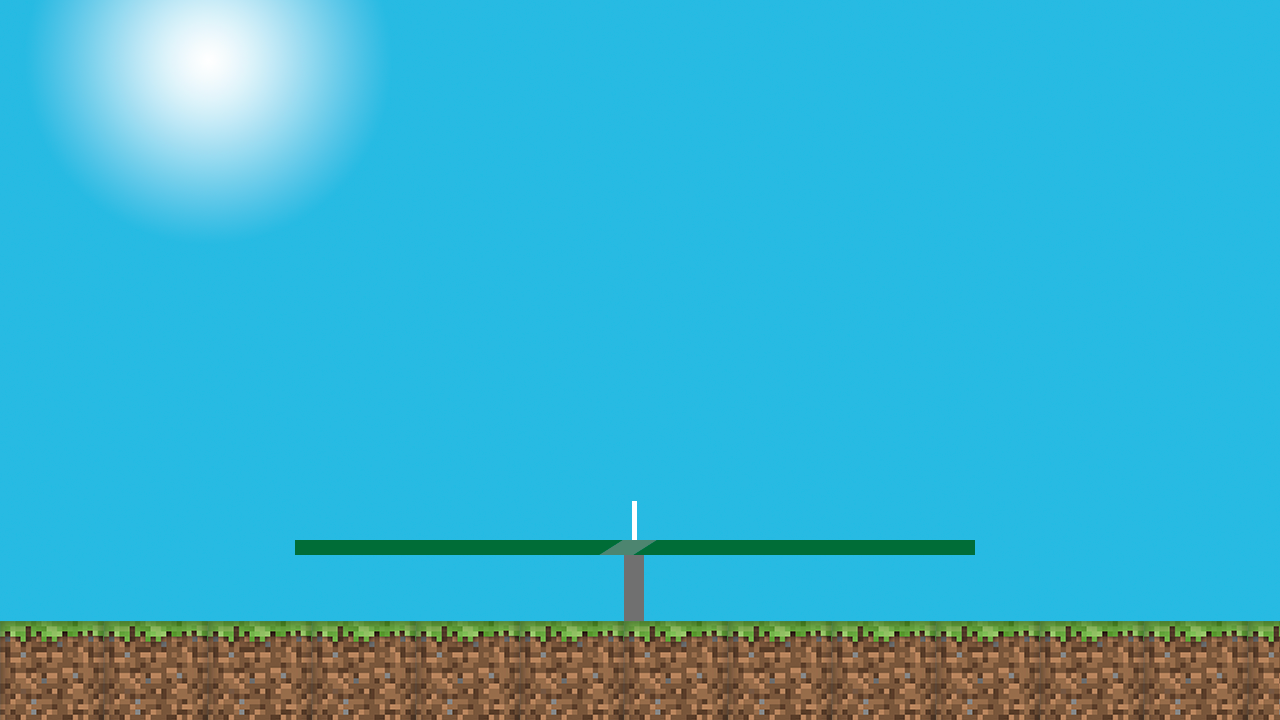
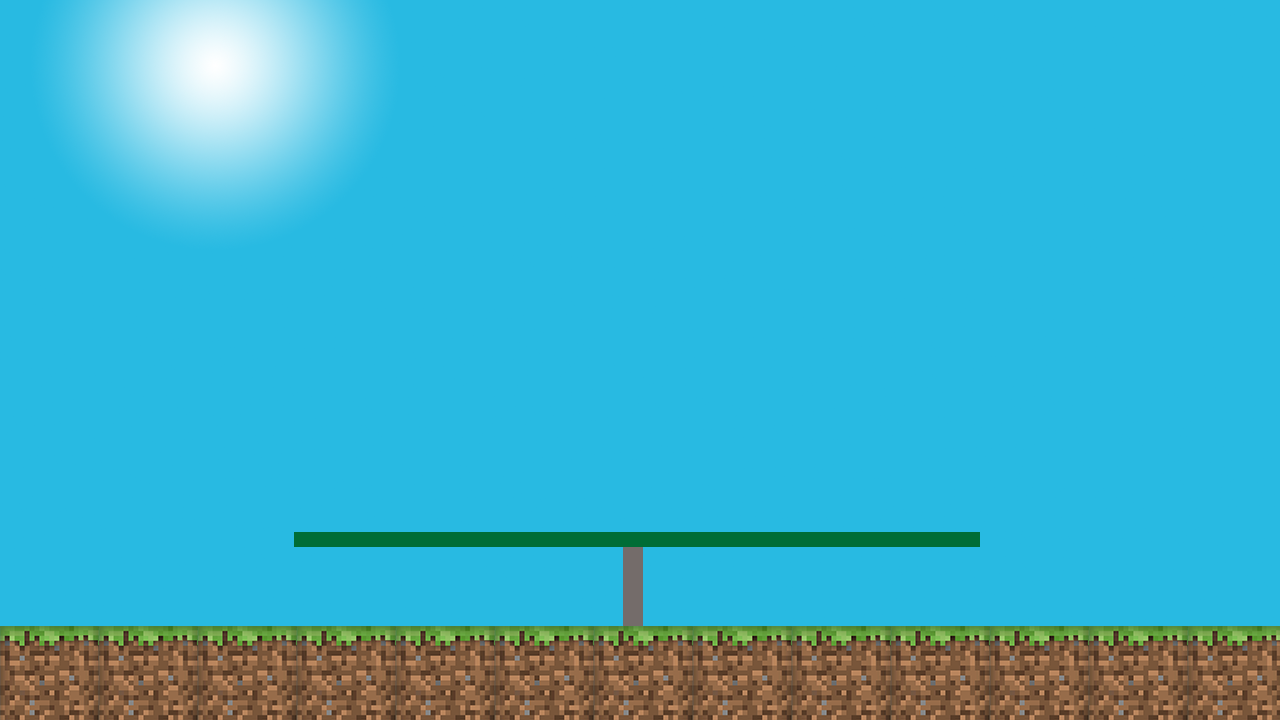
Poprawiona tekstura

Changed region(s): [[0.0, 0.8556, 1.0, 1.0], [0.2188, 0.7028, 0.7812, 0.7944], [0.0625, 0.0, 0.0938, 0.0306]]

diff --git a/pingpong/Player.cpp b/pingpong/Player.cpp
@@ -20,7 +20,7 @@ Player::Player(int mode, Racket* racket, Table* table,Ball* ball, int playerNumb
 
 void Player::move() {
 
-	
+		
 		if (mode == 0 && playerNumber == 1) {
 			if (ball->p1Serv == 2 || Collision::who == 2) {
 				if (TPMousePlayer1) {
@@ -50,6 +50,7 @@ void Player::move() {
 		}
 		else if (mode == 1 && racket->isAI) {
 			
+		
 				float x = ball->dObject->getPosition().x - racket->dObject->getPosition().x;
 				float y = ball->dObject->getPosition().y - racket->dObject->getPosition().y;
 				float lenght = sqrt(x*x + y * y);
@@ -71,15 +72,21 @@ void Player::move() {
 						x = ball->dObject->getPosition().x - 50 - racket->dObject->getPosition().x;
 						y = ball->dObject->getPosition().y + 50 - racket->dObject->getPosition().y;
 
-						if (ball->velocityVector.x < 1) speed1 = speed1 * 1.4;
-						if (abs(ball->velocityVector.x / ball->velocityVector.y) > 3 || ball->velocityVector.x < 1) speed1 = speed1 * 1.7;
-						if (abs(ball->velocityVector.y) > 3) speed1 = speed1 * 2;
-						if (abs(ball->dObject->getPosition().y) > 310 && ball->Colision!=3)
+						if (ball->velocityVector.x < 1.4f && ball->dObject->getPosition().x<800) speed1 = speed1 * 0.8;
+						else if (abs(ball->velocityVector.x / ball->velocityVector.y) > 3) speed1 = speed1 * 1.7;
+						else if (abs(ball->velocityVector.y) > 3) speed1 = speed1 * 2;
+						else if (abs(ball->dObject->getPosition().y) > 310 && ball->Colision!=3)
 						{
 							licz=2;
 							racket->dObject->setRotation(-20);
 						}
-						
+						else if (ball->dObject->getPosition().x > 800)
+						{
+							racket->dObject->setRotation(30);
+							speed1 = speed1 * 2.0f;
+							std::cout << ball->dObject->getPosition().x << "\n";
+							
+						}
 						if (licz == 0)
 						{
 							racket->dObject->setRotation(r1);
@@ -164,7 +171,6 @@ void Player::move() {
 						if (pom == 1) speed1 = 30;
 						if (pom == 2) speed1 = 32;
 						if (pom == 3) speed1 = 40;
-						std::cout << pom << "  " << speed1 << "\n";
 						x = x - 50;
 						y = y + 40;
 						lenght = sqrt(x*x + y * y);

diff --git a/pingpong/Collision.cpp b/pingpong/Collision.cpp
@@ -205,9 +205,9 @@ void Collision::ballRacketCol(Ball *ball, Racket *racket) {
 		{
 			//std::cout << racket->velocityVector.x << " 3\n";
 			ball->Colision = 0;
+			calcballRacketCol(ball, racket);
 			ball->p1 = false;
 			ball->p2 = false;
-			calcballRacketCol(ball, racket);
 			who = 2;
 		}
 		else if (!ball->p2 && ball->Colision != 0 && racket->whichPlayer == 2)
@@ -221,10 +221,11 @@ void Collision::ballRacketCol(Ball *ball, Racket *racket) {
 		{
 			//std::cout << racket->velocityVector.x << " 4\n";
 			ball->Colision = 0;
+			calcballRacketCol(ball, racket);
 			ball->p1 = false;
 			ball->p2 = false;
-			calcballRacketCol(ball, racket);
 			who = 1;
+
 		}
 		else if (!ball->p1 && ball->Colision!=0 && racket->whichPlayer == 1)
 		{
@@ -478,12 +479,17 @@ void Collision::calcballRacketCol(Ball *ball, Racket *racket)
 	else if (angle < -1.4) angle = -1.3;
 	if (racket->velocityVector.x == 0 && racket->velocityVector.y == 0)
 	{
+		std::cout << ball->p1;
 		if (racket->angle>0 && racket->angle<90 && ball->p1)
 		{
+			
 			ball->velocityVector = { -ball->velocity*cos(angle) , ball->velocity*sin(angle) };
 		}
-		else if(ball->p1)
-		ball->velocityVector = { ball->velocity*cos(angle) , ball->velocity*sin(angle) };
+		else if (ball->p1)
+		{
+			ball->velocityVector = { ball->velocity*cos(angle) , ball->velocity*sin(angle) };
+			std::cout << racket->velocityVector.x << "  " << racket->velocityVector.y << "\n";
+		}
 		else if (racket->angle < 0 && racket->angle >-90  && ball->p2)
 		ball->velocityVector = { -ball->velocity*cos(angle) , ball->velocity*sin(angle) };
 		else if(ball->p2)

diff --git a/pingpong/Gameplay.cpp b/pingpong/Gameplay.cpp
@@ -15,14 +15,13 @@ Gameplay::Gameplay(int mode) {
 	
 	this->mode = mode;
 	Game::getWindowObj().setMouseCursorVisible(false);
-	
 	this->ball = new Ball(200.0f, 300.0f);
 	this->racket1 = new Racket(150.0f, 360.0f,0,1);
 	this->racket2 = new Racket(1130.0f, 360.0f,mode,2);
 
 	this->table1 = new Table(340,15, 0, Physics::Materials::wood, (Game::getWindowObj().getSize().x / 2 - 175), Game::getWindowObj().getSize().y / 4, 1);
 	this->table2 = new Table(340, 15, 0, Physics::Materials::wood, (Game::getWindowObj().getSize().x / 2 + 170), Game::getWindowObj().getSize().y / 4, 2);
-	this->net = new Table(5, 40, 0, Physics::Materials::wood, ((Game::getWindowObj().getSize().x / 2)-2.5f), (Game::getWindowObj().getSize().y / 4)+13.0f, 3);
+	this->net = new Table(5, 30, 0, Physics::Materials::wood, ((Game::getWindowObj().getSize().x / 2)-2.5f), (Game::getWindowObj().getSize().y / 4)+23.0f, 3);
 	
 	this->wallD = new Wall( Game::getWindowObj().getSize().x*10,10,0, Physics::Materials::wood,0,0);
 	this->wallL = new Wall(10, Game::getWindowObj().getSize().y * 10, 0, Physics::Materials::wood,0,0);

diff --git a/pingpong/Game.cpp b/pingpong/Game.cpp
@@ -34,7 +34,7 @@ Game::Game(int xSize, int ySize, int refreshRate, bool verticalSync, std::string
 
 	backgroundTexture.loadFromFile("back.png");
 	background.setTexture(&backgroundTexture);
-	background.setPosition(0, -720);
+	background.setPosition(2.5, -720);
 
 }
 
@@ -141,7 +141,9 @@ void Game::updateObjects() {
 
 void Game::drawObjects() {
 	drawVector.forEach([](sf::Drawable* &obj) {
+	
 		windowObj.draw(*obj);
+		
 	});
 
 }
@@ -154,9 +156,10 @@ void Game::run() {
 		calcTimes();
 		updateObjects();
 		for (int i = 0; i < simPerFrame; i++) gameplay->simulate();
-		if (gameplay != nullptr) windowObj.draw(background);
+		if (gameplay != nullptr) 
+		windowObj.draw(background);
 		drawObjects();
-		
+
 		windowObj.display();
 		tests();
 		frameClock.restart();

diff --git a/pingpong/Racket.cpp b/pingpong/Racket.cpp
@@ -18,8 +18,8 @@ Racket::Racket(float posX, float posY,bool isAI, int whichPlayer) :
 
 void Racket::rotation() {
 
-		if (sf::Mouse::isButtonPressed(sf::Mouse::Left)) angle -= (247.5f / Game::getSimPerFrame()) * elapsedTime;
-		if (sf::Mouse::isButtonPressed(sf::Mouse::Right)) angle += (247.5f / Game::getSimPerFrame()) * elapsedTime;
+		if (sf::Mouse::isButtonPressed(sf::Mouse::Left)) angle -= (150.5f / Game::getSimPerFrame()) * elapsedTime;
+		if (sf::Mouse::isButtonPressed(sf::Mouse::Right)) angle += (150.5f / Game::getSimPerFrame()) * elapsedTime;
 		if (sf::Mouse::isButtonPressed(sf::Mouse::Middle)) angle = 0.0f;
 
 		if (angle >= 180.0f) angle -= 180.0f;

diff --git a/pingpong/Table.cpp b/pingpong/Table.cpp
@@ -8,7 +8,10 @@ Table::Table(float pixelSizeX, float pixelSizeY, float angle, Physics::Material 
 {
 	this->player = player;
 	Collision::getTableCollisionVector()._add(this);
-	
+	if (player == 1 || player == 2)
+	{
+		dObject->setFillColor(sf::Color::Transparent);
+	}
 }
 
 Table::~Table()

diff --git a/pingpong/Table.h b/pingpong/Table.h
@@ -7,6 +7,7 @@ class Table : public Rect
 
 private:
 	int player; // 1 player nr1   2 player nr2
+	sf::Texture alpha;
 
 public:
 	Table(float pixelSizeX, float pixelSizeY, float angle, Physics::Material material, float pixelPosX, float pixelPosY, int player);

diff --git a/pingpong/Gameplay.h b/pingpong/Gameplay.h
@@ -28,6 +28,7 @@ private:
 	Score score;
 	DisplayWind displayWind;
 
+
 public:
 	Gameplay(int mode);
 	static sf::Vector2f default_ballLPos, default_ballRPos, default_racketLPos, default_racketRPos;
